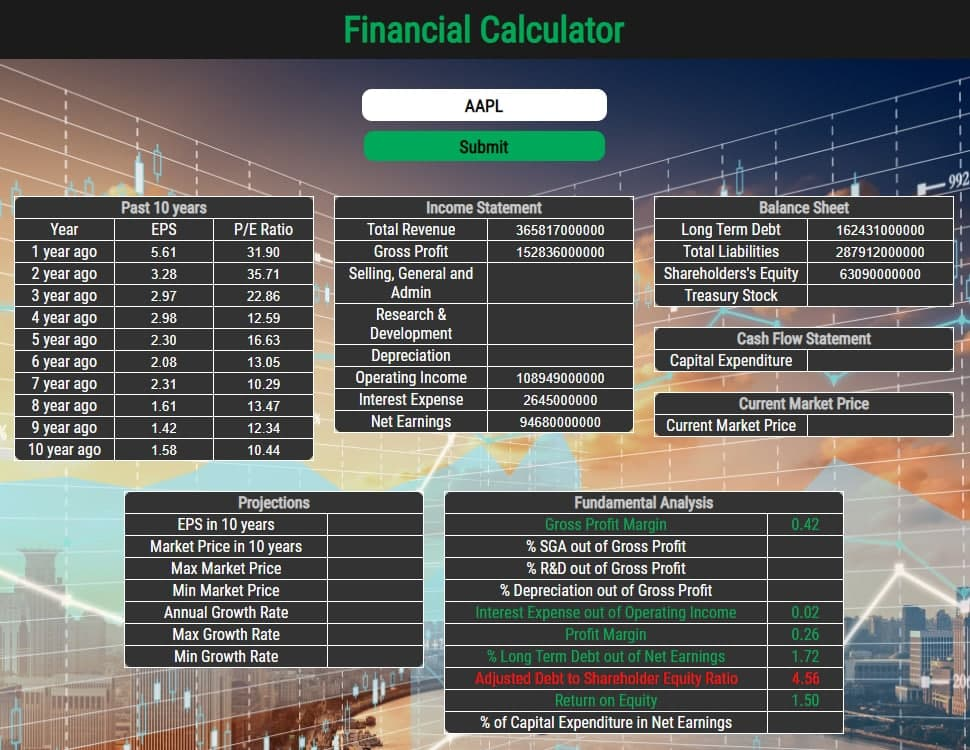
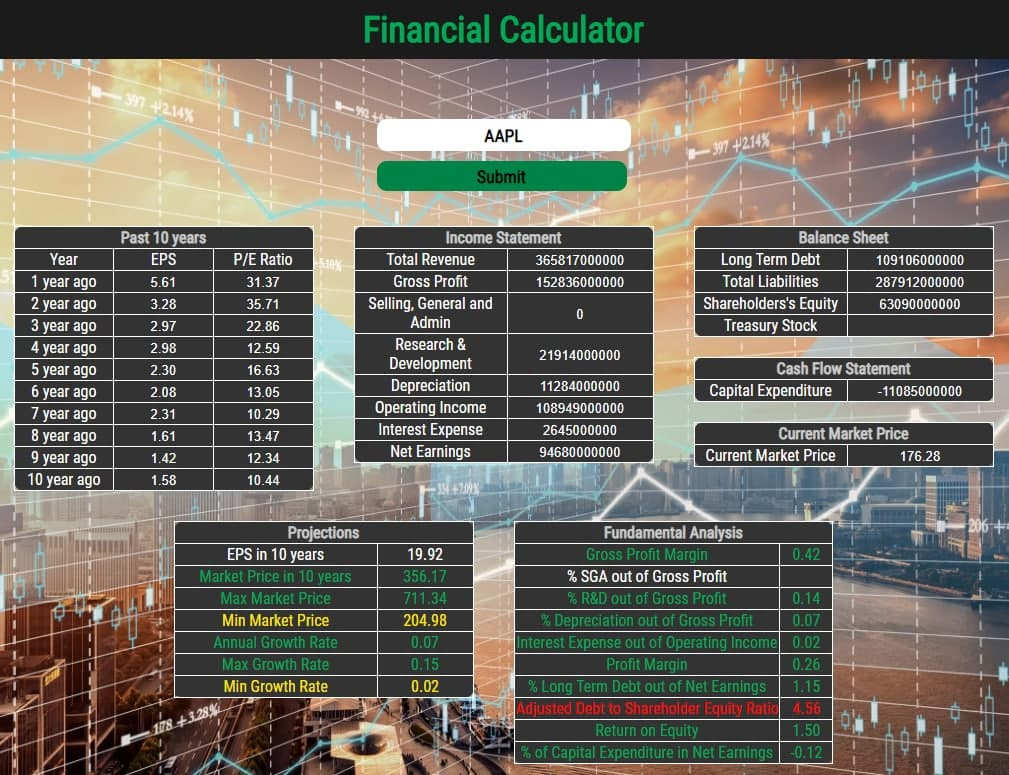
disable button while searching

diff --git a/src/store/modules/FinancialDataAPI/FinancialDataAPI.js b/src/store/modules/FinancialDataAPI/FinancialDataAPI.js
@@ -116,73 +116,88 @@ export default {
   },
 
   actions: {
-    async fetchFinancials({dispatch}, ticker) {
-      dispatch("fetchIncomeStatement", ticker);
-      dispatch("fetchBalanceSheet", ticker);
-      dispatch("fetchCashFlowStatement", ticker);
-      dispatch("fetchTenYearEPS", ticker);
-      dispatch("fetchTenYearPE", ticker);
-      dispatch("fetchCurrentMarketPrice", ticker);
+    async fetchFinancials({ dispatch }, ticker) {
+      
+      // await this promise to wait for all promises inside to resolve
+      await Promise.allSettled([ 
+        dispatch("fetchIncomeStatement", ticker),
+        dispatch("fetchBalanceSheet", ticker),
+        dispatch("fetchCashFlowStatement", ticker),
+        dispatch("fetchCurrentMarketPrice", ticker),
+        dispatch("fetchTenYearEPS", ticker),
+        dispatch("fetchTenYearPE", ticker)
+      ])
     },
 
     async fetchIncomeStatement({ commit }, ticker) {
+
       const json = await axios.get(`https://financialmodelingprep.com/api/v3/income-statement/${ticker}?limit=120&apikey=2c7e3314ec7ada4cb9e9a34c7795506b`);
       const data = json.data[0];
-      commit("modifyIncomeStatement", {stat: "TotalRevenue", amount: data.revenue});
-      commit("modifyIncomeStatement", {stat: "GrossProfit", amount: data.grossProfit});
-      commit("modifyIncomeStatement", {stat: "SGA", amount: data.sellingAndMarketingExpenses});
-      commit("modifyIncomeStatement", {stat: "RD", amount: data.researchAndDevelopmentExpenses});
-      commit("modifyIncomeStatement", {stat: "Depreciation", amount: data.depreciationAndAmortization});
-      commit("modifyIncomeStatement", {stat: "OperatingIncome", amount: data.operatingIncome});
-      commit("modifyIncomeStatement", {stat: "InterestExpense", amount: data.interestExpense});
-      commit("modifyIncomeStatement", {stat: "NetEarnings", amount: data.netIncome});
+      commit("modifyIncomeStatement", { stat: "TotalRevenue", amount: data.revenue });
+      commit("modifyIncomeStatement", { stat: "GrossProfit", amount: data.grossProfit });
+      commit("modifyIncomeStatement", { stat: "SGA", amount: data.sellingAndMarketingExpenses });
+      commit("modifyIncomeStatement", { stat: "RD", amount: data.researchAndDevelopmentExpenses });
+      commit("modifyIncomeStatement", { stat: "Depreciation", amount: data.depreciationAndAmortization });
+      commit("modifyIncomeStatement", { stat: "OperatingIncome", amount: data.operatingIncome });
+      commit("modifyIncomeStatement", { stat: "InterestExpense", amount: data.interestExpense });
+      commit("modifyIncomeStatement", { stat: "NetEarnings", amount: data.netIncome });
+
     },
 
-    async fetchBalanceSheet({commit}, ticker) {
+    async fetchBalanceSheet({ commit }, ticker) {
+
       const json = await axios.get(`https://financialmodelingprep.com/api/v3/balance-sheet-statement/${ticker}?limit=120&apikey=2c7e3314ec7ada4cb9e9a34c7795506b`);
       const data = json.data[0];
-      commit("modifyBalanceSheet", {stat: "LongTermDebt", amount: data.longTermDebt});
-      commit("modifyBalanceSheet", {stat: "TotalLiabilities", amount: data.totalLiabilities});
-      commit("modifyBalanceSheet", {stat: "ShareholderEquity", amount: data.totalStockholdersEquity});
+      commit("modifyBalanceSheet", { stat: "LongTermDebt", amount: data.longTermDebt });
+      commit("modifyBalanceSheet", { stat: "TotalLiabilities", amount: data.totalLiabilities });
+      commit("modifyBalanceSheet", { stat: "ShareholderEquity", amount: data.totalStockholdersEquity });
+
     },
 
-    async fetchCashFlowStatement({commit}, ticker) {
+    async fetchCashFlowStatement({ commit }, ticker) {
+
       const json = await axios.get(`https://financialmodelingprep.com/api/v3/cash-flow-statement/${ticker}?limit=120&apikey=2c7e3314ec7ada4cb9e9a34c7795506b`)
       const data = json.data[0];
-      commit("modifyCashFlowStatement", {stat: "CapitalExpenditure", amount: data.capitalExpenditure});
+      commit("modifyCashFlowStatement", { stat: "CapitalExpenditure", amount: data.capitalExpenditure });
+
     },
 
-    async fetchCurrentMarketPrice({commit}, ticker) {
+    async fetchCurrentMarketPrice({ commit }, ticker) {
+
       const json = await axios.get(`https://financialmodelingprep.com/api/v3/quote-short/${ticker}?apikey=2c7e3314ec7ada4cb9e9a34c7795506b`)
       const data = json.data[0];
       commit("modifyCurrentMarketPrice", data.price);
+
     },
 
     async fetchTenYearEPS({ commit }, ticker) {
+
       const json = await axios.get(`https://financial-webscraping-api.herokuapp.com/eps?ticker=${ticker}`);
-      const EPSarray = json.data.eps;
+      const EPSarray = await json.data.eps;
       for (let i = 0; i < 10; i++) {
-        commit("modifyEPS", {position: i, amount: EPSarray[i]});
+        commit("modifyEPS", { position: i, amount: EPSarray[i] });
       }
+
     },
 
     async fetchTenYearPE({ commit }, ticker) {
+
       const json = await axios.get(`https://financial-webscraping-api.herokuapp.com/pe?ticker=${ticker}`);
-      const PEarray = json.data.pe;
+      const PEarray = await json.data.pe;
       for (let i = 0; i < 10; i++) {
-        commit("modifyPEratio", {position: i, amount: PEarray[i]})
+        commit("modifyPEratio", { position: i, amount: PEarray[i] })
       }
     },
 
-    async fetchHistoricalDailyPrices({commit, state}, object) {
+    async fetchHistoricalDailyPrices({ commit, state }, object) {
 
       if (state.CurrentTicker !== object.ticker) {
         const json = await axios.get(`https://financialmodelingprep.com/api/v3/historical-price-full/${object.ticker}?serietype=line&apikey=2c7e3314ec7ada4cb9e9a34c7795506b`);
         const data = json.data;
-      
-        let labels = data.historical.map(item => item.date).slice(0,253*5);
-        let dataset = data.historical.map(item => item.close).slice(0,253*5);
-      
+
+        let labels = data.historical.map(item => item.date).slice(0, 253 * 5);
+        let dataset = data.historical.map(item => item.close).slice(0, 253 * 5);
+
         const chartdata = {
           labels: labels,
           datasets: [{

diff --git a/src/components/FinancialCalculator/EnterTickerFinancials/EnterTickerFinancials.vue b/src/components/FinancialCalculator/EnterTickerFinancials/EnterTickerFinancials.vue
@@ -5,7 +5,10 @@
       spellcheck="false" 
       placeholder="Enter Ticker" 
       v-model="ticker" />
-    <input class="submit" type="submit" @click="fetchFinancials(ticker)" />
+    <input class="submit" 
+      type="submit" 
+      :disabled="isDisabled"
+      @click="fetchFinancials(ticker)" />
   </div>
 </template>
 
@@ -15,13 +18,20 @@ export default {
   data: function () {
     return {
       ticker: "",
+      isDisabled: false,
     };
   },
+  
   methods: {
-    fetchFinancials: function (ticker) {
+    fetchFinancials: async function (ticker) {
+      this.isDisabled = true;
+
       this.$store.commit("calculations/clearAll");
       this.$store.commit("FinancialDataAPI/clearAll");
-      this.$store.dispatch("FinancialDataAPI/fetchFinancials", ticker.toUpperCase());    
+      await this.$store.dispatch("FinancialDataAPI/fetchFinancials", ticker.toUpperCase());
+
+      // only disables button again when the webscrapping is complete
+      this.isDisabled = false;     
     },
   },
   
@@ -68,6 +78,11 @@ input:focus {
   box-shadow: 5px5px5px#eee;
   text-shadow: none;
   transition: 0.5s ease-out;
+}
+
+.submit:disabled {
+  background: rgb(0, 131, 70);
+  animation: spin 2s linear infinite;
 }
 
 .ticker {
